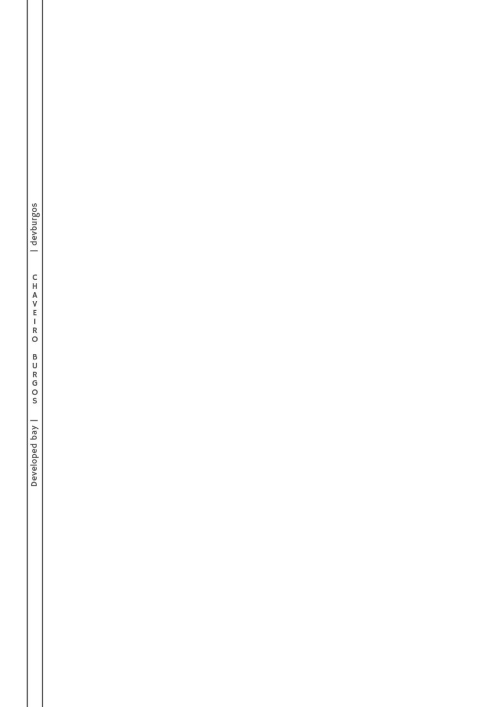
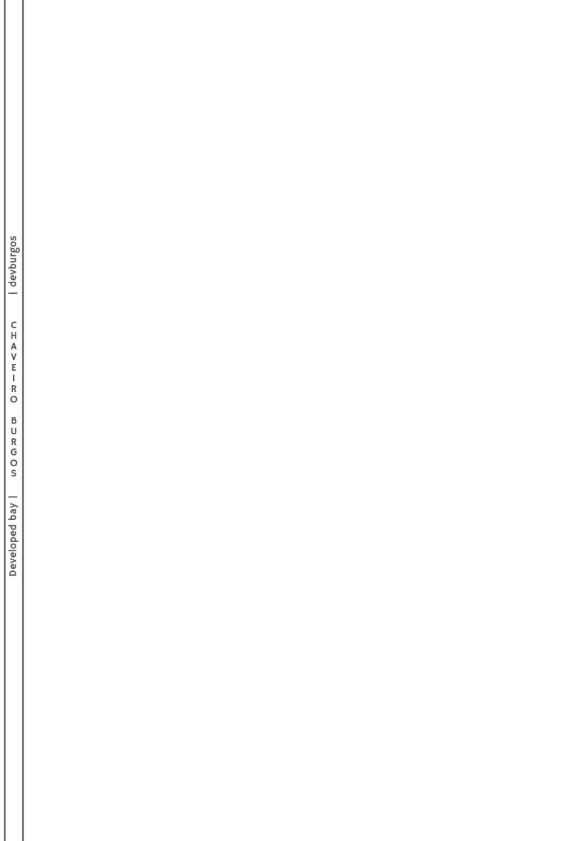
fundo body

Changed region(s): [[0.0, 0.0, 0.09, 1.0]]

diff --git a/estilos/style.css b/estilos/style.css
@@ -32,6 +32,8 @@ html, body {
 
 body {
     font-family: var(--font-padrão);
+    background: url('../imagens/fundo-body-claro.jpg' ) no-repeat left top 100vh;
+    background-size: contain;
     
 }
 
